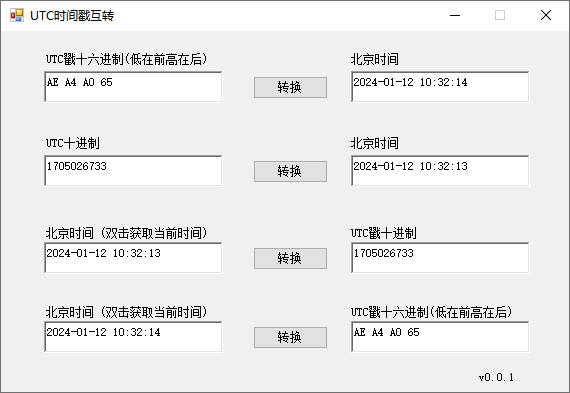
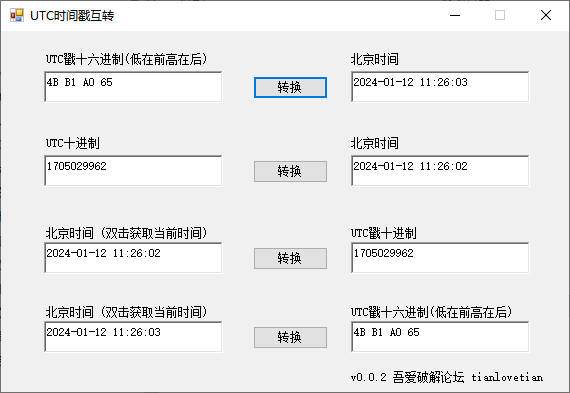
2024年1月12日 添加软件戳

diff --git a/Form1.Designer.cs b/Form1.Designer.cs
@@ -233,11 +233,11 @@
             // label8
             // 
             this.label8.AutoSize = true;
-            this.label8.Location = new System.Drawing.Point(476, 340);
+            this.label8.Location = new System.Drawing.Point(348, 340);
             this.label8.Name = "label8";
-            this.label8.Size = new System.Drawing.Size(41, 12);
+            this.label8.Size = new System.Drawing.Size(197, 12);
             this.label8.TabIndex = 15;
-            this.label8.Text = "v0.0.1";
+            this.label8.Text = "v0.0.2 吾爱破解论坛 tianlovetian";
             this.label8.Click += new System.EventHandler(this.label8_Click);
             // 
             // label10
